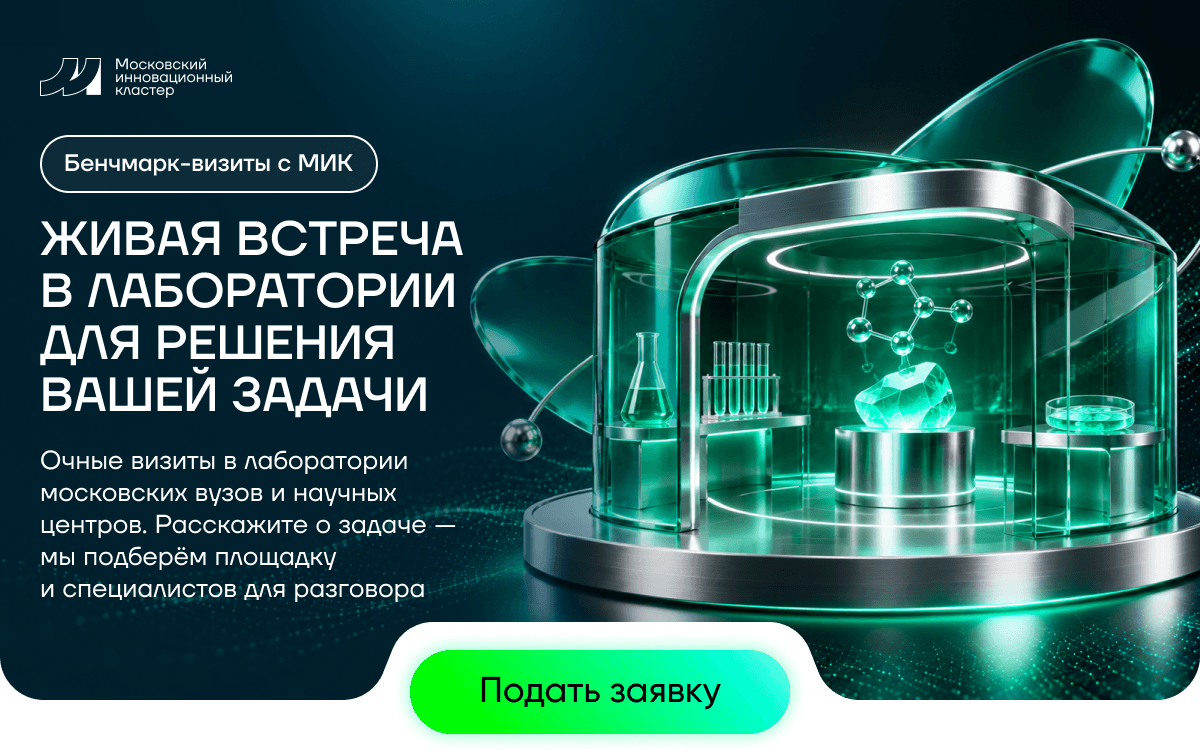
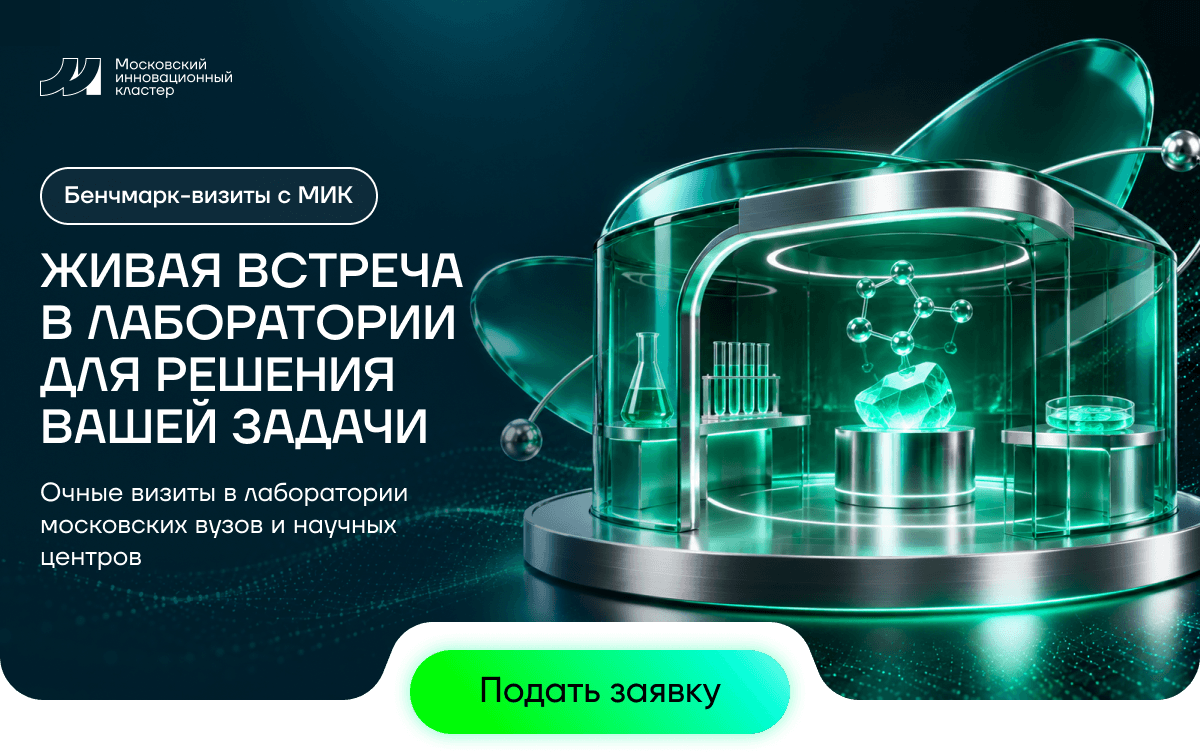
change mik-455

Changed region(s): [[0.0308, 0.183, 0.4008, 0.7931], [0.6167, 0.8541, 0.6475, 0.9151]]

diff --git a/mik-455/Живая встреча в лаборатории для решения вашей задачи.html b/mik-455/Живая встреча в лаборатории для решения вашей задачи.html
@@ -103,7 +103,7 @@
                                         <tr>
                                             <td style="width:600px;">
                                                 <a href="https://i.moscow/measure-supports/site/form/954b7b010a5742ca9188c01afc303ca2?utm_source=marketing&utm_medium=email&utm_campaign=digital&utm_content=benchmark&utm_term=05112026" target="_blank">
-                                                    <img alt="Бенчмарк-визиты с МИК. Живая встреча в лаборатории для решения вашей задачи. Очные визиты в лаборатории московских вузов и научных центров. Расскажите о задаче — мы подберём площадку и специалистов для разговора. Нажмите здесь, чтобы подать заявку" height="auto" src="https://cp.unisender.com/ru/user_file?resource=images&user_id=5608985&name=mik-455-hero.png" style="border:0;display:block;outline:none;text-decoration:none;height:auto;width:100%;font-size:13px;" width="600" />
+                                                    <img alt="Бенчмарк-визиты с МИК. Живая встреча в лаборатории для решения вашей задачи. Очные визиты в лаборатории московских вузов и научных центров. Нажмите здесь, чтобы подать заявку" height="auto" src="https://cp.unisender.com/ru/user_file?resource=images&user_id=5608985&name=mik-455-hero.png" style="border:0;display:block;outline:none;text-decoration:none;height:auto;width:100%;font-size:13px;" width="600" />
                                                 </a>
                                             </td>
                                         </tr>
